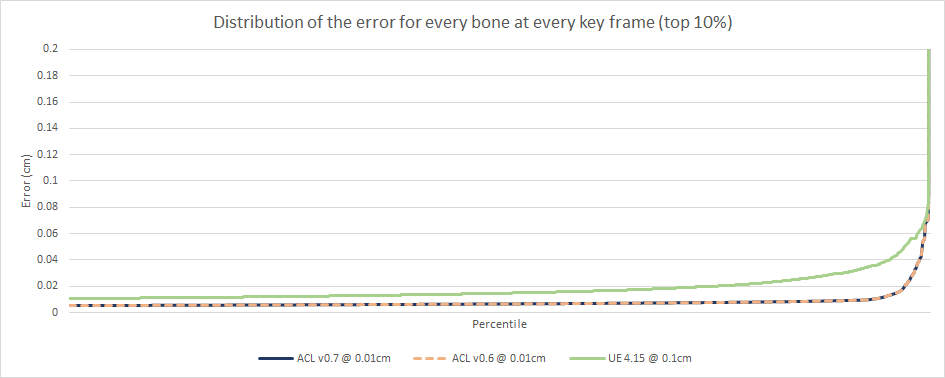
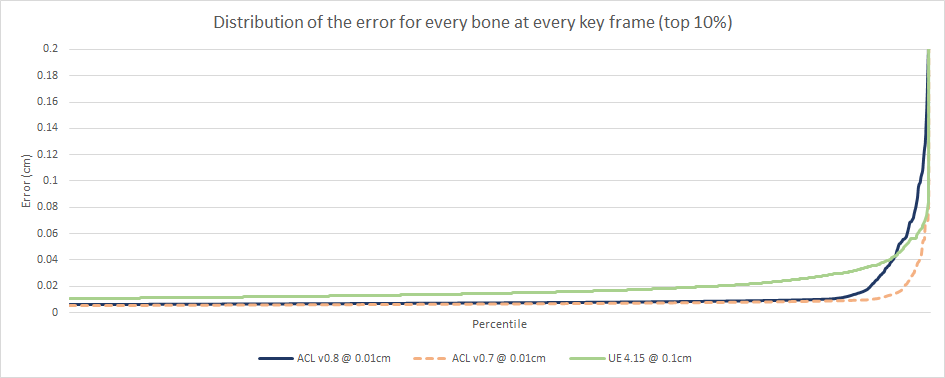
Updating Paragon stats and images.

diff --git a/docs/paragon_performance.md b/docs/paragon_performance.md
@@ -30,18 +30,18 @@ The error is measured **3cm** away from each bone to simulate the visual mesh sk
 
 Statistics for ACL are being generated with the `acl_compressor` tool found [here](../tools/acl_compressor). It supports various compression method but only the overall best variant will be tracked here: variable bit rate with range reduction enabled. Every clip uses an error threshold of **0.01cm (0.1mm)**.
 
-*  Compressed size: **205.58 MB**
-*  Compression ratio: **20.80 : 1**
+*  Compressed size: **206.09 MB**
+*  Compression ratio: **20.75 : 1**
 *  Max error: **3.8615** centimeters
-*  Compression time: **09h 43m 41.08s** (single threaded)
-*  Compression time: **02h 37m 23.60s** (multi threaded on 4 cores)
+*  Compression time: **07h 30m 46.44s** (single threaded)
+*  Compression time: **02h 03m 17.12s** (multi threaded on 4 cores)
 
 Notes:
 
 *  You can compress any number of clips in parallel with multiple threads but each clip uses a single thread for now.
 *  The error is unusually high for **3** exotic clips
 
-**Results from release [0.7.0](https://github.com/nfrechette/acl/releases/tag/v0.7.0)**
+**Results from release [0.8.0](https://github.com/nfrechette/acl/releases/tag/v0.8.0)**
 
 See [here](paragon_performance_history.md) for a history of performance progress across the various releases.
 

diff --git a/docs/paragon_performance_history.md b/docs/paragon_performance_history.md
@@ -12,6 +12,17 @@ The error is measured **3cm** away from each bone to simulate the visual mesh sk
 
 Statistics for ACL are being generated with the `acl_compressor` tool found [here](../tools/acl_compressor). It supports various compression method but only the overall best variant will be tracked here. Every clip uses an error threshold of **0.01cm (0.1mm)**.
 
+## Results from release [0.8.0](https://github.com/nfrechette/acl/releases/tag/v0.8.0):
+
+*  Compressed size: **206.09 MB**
+*  Compression ratio: **20.75 : 1**
+*  Max error: **3.8615** centimeters
+*  Compression time: **07h 30m 46.44s** (single threaded)
+*  Compression time: **02h 03m 17.12s** (multi threaded on 4 cores)
+*  Best variant: Segmented uniform sampling with variable bit rate and range reduction
+
+*Note: The error is unusually high for **3** exotic clips*
+
 ## Results from release [0.7.0](https://github.com/nfrechette/acl/releases/tag/v0.7.0):
 
 *  Compressed size: **205.58 MB**
